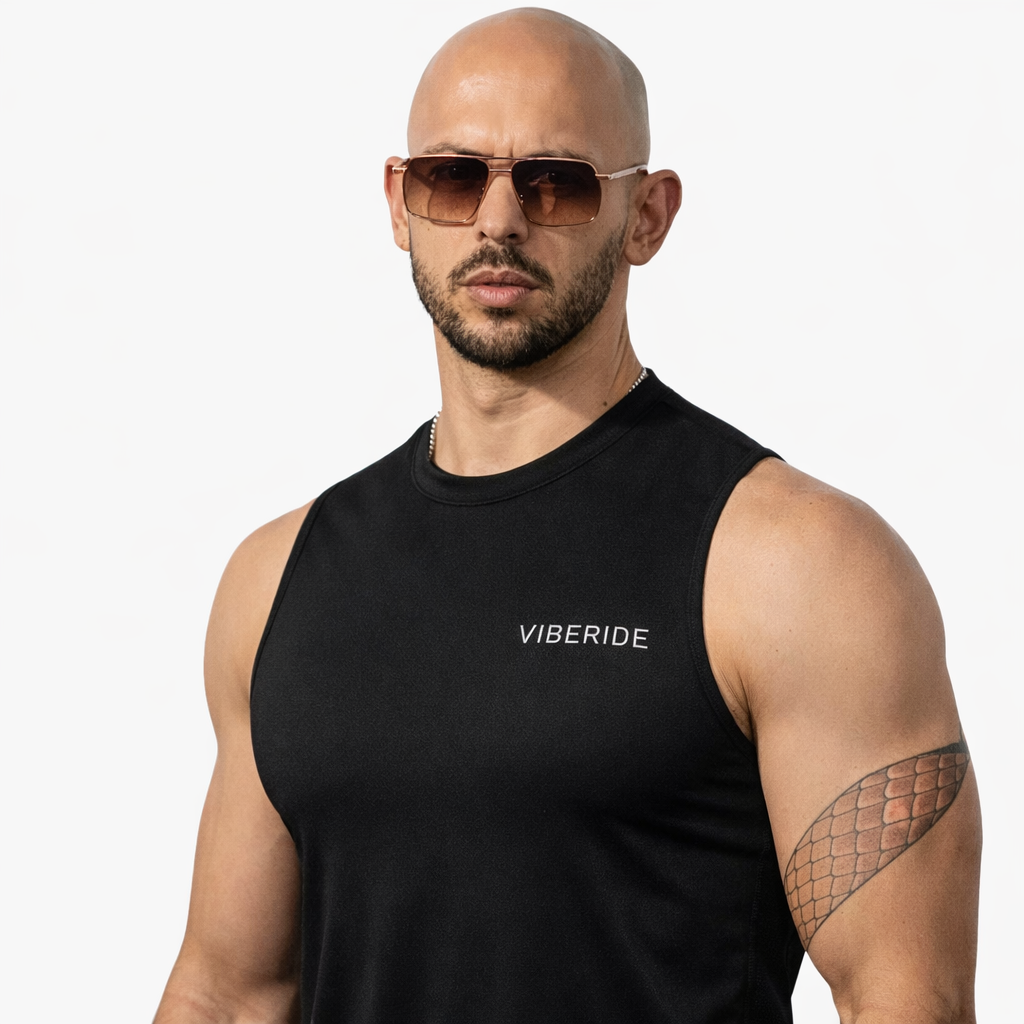
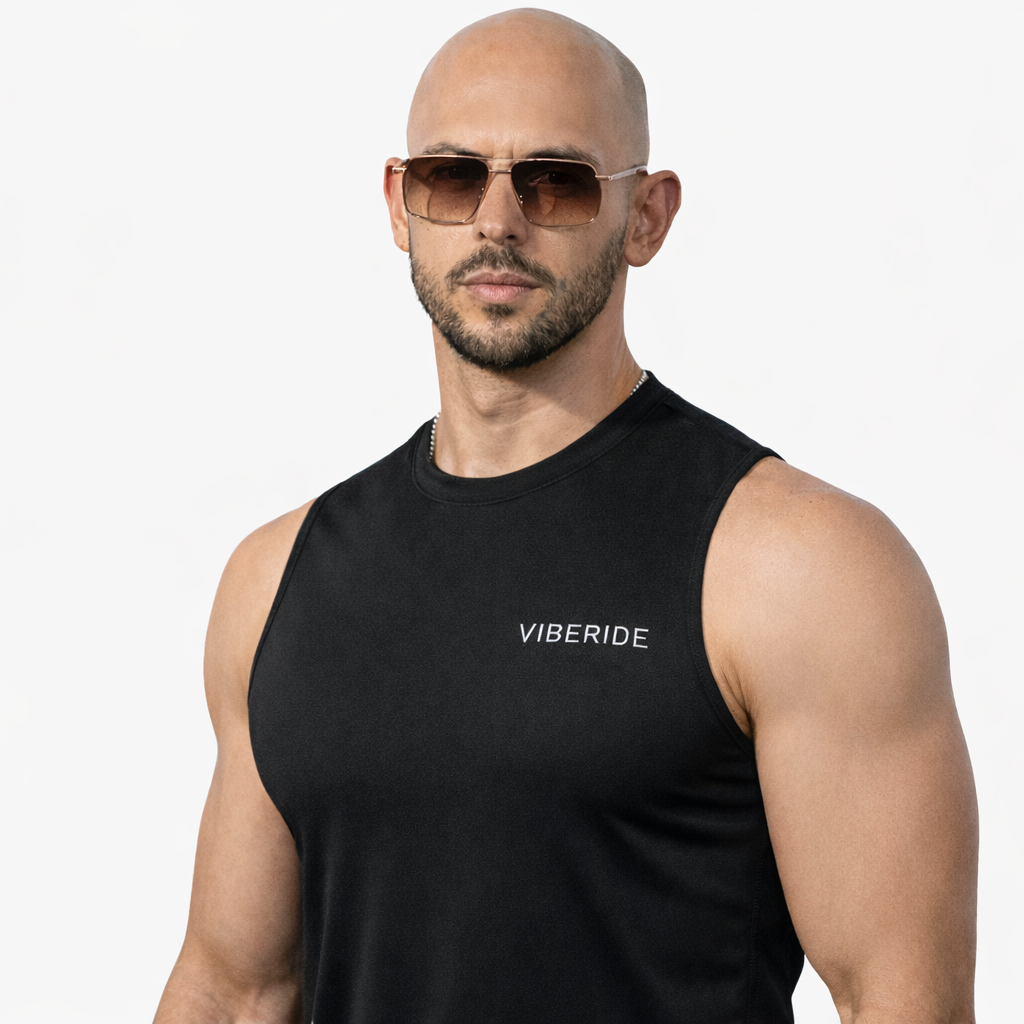
fix(schedule): optimize week switch and limit client horizon
feat(trainers): update trainer6 photo

diff --git a/components/blocks/schedule/SessionListBlock.tsx b/components/blocks/schedule/SessionListBlock.tsx
@@ -1,6 +1,6 @@
 'use client';
 
-import {CSSProperties, useEffect, useMemo, useRef, useState} from 'react';
+import {CSSProperties, useCallback, useEffect, useMemo, useRef, useState, useTransition} from 'react';
 import {useSearchParams} from 'next/navigation';
 import {Link} from '@/lib/navigation';
 import {getWorkoutTypeBySessionTitle} from '@/lib/data/workout-types';
@@ -13,8 +13,8 @@ import {useTrainerPool} from '@/components/providers/TrainerPoolProvider';
 import {t} from '@/lib/utils/localized';
 import {getTrainerShortName} from '@/lib/utils/trainer';
 
-const MIN_SCHEDULE_DAYS = 10;
 const DAYS_IN_WEEK = 7;
+const VISIBLE_WEEKS = 2;
 const SCHEDULE_DESCRIPTION_MAX_CHARS = 72;
 const PAST_STATUS_REFRESH_MS = 30_000;
 
@@ -77,6 +77,12 @@ function addDaysToIso(dateIso: string, days: number) {
   return value.toISOString().slice(0, 10);
 }
 
+function getStartOfWeekIso(dateIso: string) {
+  const date = new Date(`${dateIso}T00:00:00Z`);
+  const weekDay = date.getUTCDay() || 7;
+  return addDaysToIso(dateIso, -(weekDay - 1));
+}
+
 function diffDaysIso(fromIso: string, toIso: string) {
   const [fromYear, fromMonth, fromDay] = fromIso.split('-').map(Number);
   const [toYear, toMonth, toDay] = toIso.split('-').map(Number);
@@ -118,19 +124,27 @@ export default function SessionListBlock({
   const contentScrollerRef = useRef<HTMLDivElement | null>(null);
   const [nowTimestamp, setNowTimestamp] = useState(() => Date.now());
   const [topTrackWidth, setTopTrackWidth] = useState(0);
+  const [isPendingWeekSwitch, startWeekSwitchTransition] = useTransition();
   const searchParams = useSearchParams();
   const autoOpenedSessionRef = useRef<string | null>(null);
   const sessionIdFromQuery = searchParams.get('session');
   const todayIso = useMemo(() => getLocalDateIso(nowTimestamp), [nowTimestamp]);
+  const currentWeekStartIso = useMemo(() => getStartOfWeekIso(todayIso), [todayIso]);
+  const currentWeekEndIso = useMemo(() => addDaysToIso(currentWeekStartIso, DAYS_IN_WEEK - 1), [currentWeekStartIso]);
+  const nextWeekEndIso = useMemo(
+    () => addDaysToIso(currentWeekStartIso, DAYS_IN_WEEK * VISIBLE_WEEKS - 1),
+    [currentWeekStartIso]
+  );
   const clientSessions = useMemo(
     () =>
       sessions.filter(
         (session) =>
           !session.trainerDetached &&
           Boolean(session.trainerId) &&
-          getDateKey(session.startsAt) >= todayIso
+          getDateKey(session.startsAt) >= todayIso &&
+          getDateKey(session.startsAt) <= nextWeekEndIso
       ),
-    [sessions, todayIso]
+    [sessions, todayIso, nextWeekEndIso]
   );
 
   useEffect(() => {
@@ -160,34 +174,46 @@ export default function SessionListBlock({
 
   const days = useMemo(() => {
     if (clientSessions.length === 0) return [];
-    const uniqueSortedDates = Array.from(new Set(clientSessions.map((session) => getDateKey(session.startsAt)))).sort();
-    const firstDate = uniqueSortedDates[0];
-    const lastDate = uniqueSortedDates[uniqueSortedDates.length - 1];
-    const spanDays = diffDaysIso(firstDate, lastDate) + 1;
-    const totalDays = Math.max(MIN_SCHEDULE_DAYS, spanDays);
-    return Array.from({length: totalDays}, (_, index) => addDaysToIso(firstDate, index));
-  }, [clientSessions]);
+    const totalDays = diffDaysIso(todayIso, nextWeekEndIso) + 1;
+    return Array.from({length: totalDays}, (_, index) => addDaysToIso(todayIso, index));
+  }, [clientSessions.length, todayIso, nextWeekEndIso]);
 
   const byDay = useMemo(() => {
-    return days.map((day) =>
-      clientSessions
-        .filter((session) => getDateKey(session.startsAt) === day)
-        .sort((a, b) => a.startsAt.localeCompare(b.startsAt))
-    );
+    const sessionsByDate = new Map<string, typeof clientSessions>();
+    for (const session of clientSessions) {
+      const day = getDateKey(session.startsAt);
+      const existing = sessionsByDate.get(day);
+      if (existing) {
+        existing.push(session);
+      } else {
+        sessionsByDate.set(day, [session]);
+      }
+    }
+
+    return days.map((day) => [...(sessionsByDate.get(day) ?? [])].sort((a, b) => a.startsAt.localeCompare(b.startsAt)));
   }, [clientSessions, days]);
 
   const weekRanges = useMemo(() => {
-    return Array.from({length: Math.ceil(days.length / DAYS_IN_WEEK)}, (_, index) => {
-      const startIndex = index * DAYS_IN_WEEK;
-      const endIndex = Math.min(days.length - 1, startIndex + DAYS_IN_WEEK - 1);
-      return {
-        startIndex,
-        endIndex,
-        startIso: days[startIndex],
-        endIso: days[endIndex]
-      };
-    });
-  }, [days]);
+    if (days.length === 0) return [];
+    const currentWeekLastIndex = Math.min(days.length - 1, diffDaysIso(todayIso, currentWeekEndIso));
+    const ranges = [
+      {
+        startIndex: 0,
+        endIndex: currentWeekLastIndex,
+        startIso: days[0],
+        endIso: days[currentWeekLastIndex]
+      }
+    ];
+    if (currentWeekLastIndex + 1 <= days.length - 1) {
+      ranges.push({
+        startIndex: currentWeekLastIndex + 1,
+        endIndex: days.length - 1,
+        startIso: days[currentWeekLastIndex + 1],
+        endIso: days[days.length - 1]
+      });
+    }
+    return ranges;
+  }, [days, todayIso, currentWeekEndIso]);
 
   const [activeWeekStartIndex, setActiveWeekStartIndex] = useState(0);
 
@@ -207,9 +233,11 @@ export default function SessionListBlock({
     const selectedDay = getDateKey(selected.startsAt);
     const targetWeek = weekRanges.find((range) => selectedDay >= range.startIso && selectedDay <= range.endIso);
     if (targetWeek && targetWeek.startIndex !== activeWeekStartIndex) {
-      setActiveWeekStartIndex(targetWeek.startIndex);
+      startWeekSwitchTransition(() => {
+        setActiveWeekStartIndex(targetWeek.startIndex);
+      });
     }
-  }, [selected, weekRanges, activeWeekStartIndex]);
+  }, [selected, weekRanges, activeWeekStartIndex, startWeekSwitchTransition]);
 
   const visibleDays = useMemo(
     () => days.slice(activeWeekStartIndex, activeWeekStartIndex + DAYS_IN_WEEK),
@@ -219,6 +247,18 @@ export default function SessionListBlock({
   const visibleByDay = useMemo(
     () => byDay.slice(activeWeekStartIndex, activeWeekStartIndex + DAYS_IN_WEEK),
     [byDay, activeWeekStartIndex]
+  );
+  const trainerById = useMemo(() => {
+    return new Map(trainers.map((trainer) => [trainer.id, trainer] as const));
+  }, [trainers]);
+  const handleWeekClick = useCallback(
+    (startIndex: number) => {
+      if (startIndex === activeWeekStartIndex || isPendingWeekSwitch) return;
+      startWeekSwitchTransition(() => {
+        setActiveWeekStartIndex(startIndex);
+      });
+    },
+    [activeWeekStartIndex, isPendingWeekSwitch, startWeekSwitchTransition]
   );
 
   const gridStyle = {
@@ -267,7 +307,7 @@ export default function SessionListBlock({
       window.removeEventListener('resize', updateTrackWidth);
       resizeObserver.disconnect();
     };
-  }, [visibleDays.length, activeWeekStartIndex]);
+  }, [visibleDays.length]);
 
   if (days.length === 0) {
     return (
@@ -291,7 +331,8 @@ export default function SessionListBlock({
             <button
               key={`${range.startIso}-${range.endIso}`}
               type="button"
-              onClick={() => setActiveWeekStartIndex(range.startIndex)}
+              onClick={() => handleWeekClick(range.startIndex)}
+              disabled={isPendingWeekSwitch}
               className={`whitespace-nowrap rounded-full border px-3 py-1.5 text-xs font-semibold transition ${
                 active
                   ? 'border-[var(--accent)]/60 bg-[var(--accent)]/12 text-[var(--accent)]'
@@ -346,7 +387,7 @@ export default function SessionListBlock({
                 }`}
               >
                 {daySessions.map((session) => {
-                  const trainer = trainers.find((item) => item.id === session.trainerId);
+                  const trainer = trainerById.get(session.trainerId);
                   const isPast = isPastSession(session.startsAt, session.durationMin, nowTimestamp);
                   const available = !isPast && session.bookedCount < session.capacity;
                   const isSelected = selected?.id === session.id;

diff --git a/components/admin/AdminSessionPoolManager.tsx b/components/admin/AdminSessionPoolManager.tsx
@@ -1,6 +1,6 @@
 'use client';
 
-import {CSSProperties, useEffect, useMemo, useState} from 'react';
+import {CSSProperties, useCallback, useEffect, useMemo, useState, useTransition} from 'react';
 import Button from '@/components/ui/Button';
 import Card from '@/components/ui/Card';
 import IntensityScale, {getIntensityBySession, getIntensityColorBySession, getIntensityLabel} from '@/components/ui/IntensityScale';
@@ -264,6 +264,7 @@ export default function AdminSessionPoolManager({locale}: {locale: Locale}) {
   const isRu = locale === 'ru';
   const [message, setMessage] = useState<string | null>(null);
   const [error, setError] = useState<string | null>(null);
+  const [isPendingWeekSwitch, startWeekSwitchTransition] = useTransition();
   const [isAppendingMockSchedule, setIsAppendingMockSchedule] = useState(false);
   const [baseSessions, setBaseSessions] = useState<Session[]>(() => sortSessions(sessions));
   const [draftSessions, setDraftSessions] = useState<Session[]>(() => sortSessions(sessions));
@@ -333,6 +334,15 @@ export default function AdminSessionPoolManager({locale}: {locale: Locale}) {
   }, [dayNumbers.length, baseDateIso]);
 
   const [activeWeekStartDay, setActiveWeekStartDay] = useState(1);
+  const handleWeekClick = useCallback(
+    (startDay: number) => {
+      if (startDay === activeWeekStartDay || isPendingWeekSwitch) return;
+      startWeekSwitchTransition(() => {
+        setActiveWeekStartDay(startDay);
+      });
+    },
+    [activeWeekStartDay, isPendingWeekSwitch, startWeekSwitchTransition]
+  );
 
   useEffect(() => {
     if (weekRanges.length === 0) {
@@ -641,7 +651,8 @@ export default function AdminSessionPoolManager({locale}: {locale: Locale}) {
               <button
                 key={`${range.startDay}-${range.endDay}`}
                 type="button"
-                onClick={() => setActiveWeekStartDay(range.startDay)}
+                onClick={() => handleWeekClick(range.startDay)}
+                disabled={isPendingWeekSwitch}
                 className={`whitespace-nowrap rounded-full border px-3 py-1.5 text-xs font-semibold transition ${
                   isActive
                     ? 'border-[var(--accent)]/60 bg-[var(--accent)]/12 text-[var(--accent)]'

diff --git a/components/blocks/schedule/ScheduleFiltersBlock.tsx b/components/blocks/schedule/ScheduleFiltersBlock.tsx
@@ -19,6 +19,8 @@ import {Session} from '@/lib/types/session';
 import {getTrainerFullName} from '@/lib/utils/trainer';
 
 type IntensityFilter = '' | `${IntensityValue}`;
+const DAYS_IN_WEEK = 7;
+const VISIBLE_WEEKS = 2;
 
 type Filters = {
   trainerId: string;
@@ -35,6 +37,18 @@ function getLocalDateIso(date: Date) {
   const month = `${date.getMonth() + 1}`.padStart(2, '0');
   const day = `${date.getDate()}`.padStart(2, '0');
   return `${year}-${month}-${day}`;
+}
+
+function addDaysToIso(dateIso: string, days: number) {
+  const [year, month, day] = dateIso.split('-').map(Number);
+  const value = new Date(Date.UTC(year, (month || 1) - 1, (day || 1) + days));
+  return value.toISOString().slice(0, 10);
+}
+
+function getStartOfWeekIso(dateIso: string) {
+  const date = new Date(`${dateIso}T00:00:00Z`);
+  const weekDay = date.getUTCDay() || 7;
+  return addDaysToIso(dateIso, -(weekDay - 1));
 }
 
 function matchesFilters(session: Session, filters: Filters) {
@@ -68,15 +82,17 @@ export default function ScheduleFiltersBlock({
   const [open, setOpen] = useState(false);
 
   const todayIso = useMemo(() => getLocalDateIso(new Date()), []);
+  const nextWeekEndIso = useMemo(() => addDaysToIso(getStartOfWeekIso(todayIso), DAYS_IN_WEEK * VISIBLE_WEEKS - 1), [todayIso]);
   const availableSessions = useMemo(
     () =>
       sessions.filter(
         (session) =>
           !session.trainerDetached &&
           Boolean(session.trainerId) &&
-          getDateKey(session.startsAt) >= todayIso
+          getDateKey(session.startsAt) >= todayIso &&
+          getDateKey(session.startsAt) <= nextWeekEndIso
       ),
-    [sessions, todayIso]
+    [sessions, todayIso, nextWeekEndIso]
   );
 
   const intensityCounts = useMemo(() => {
